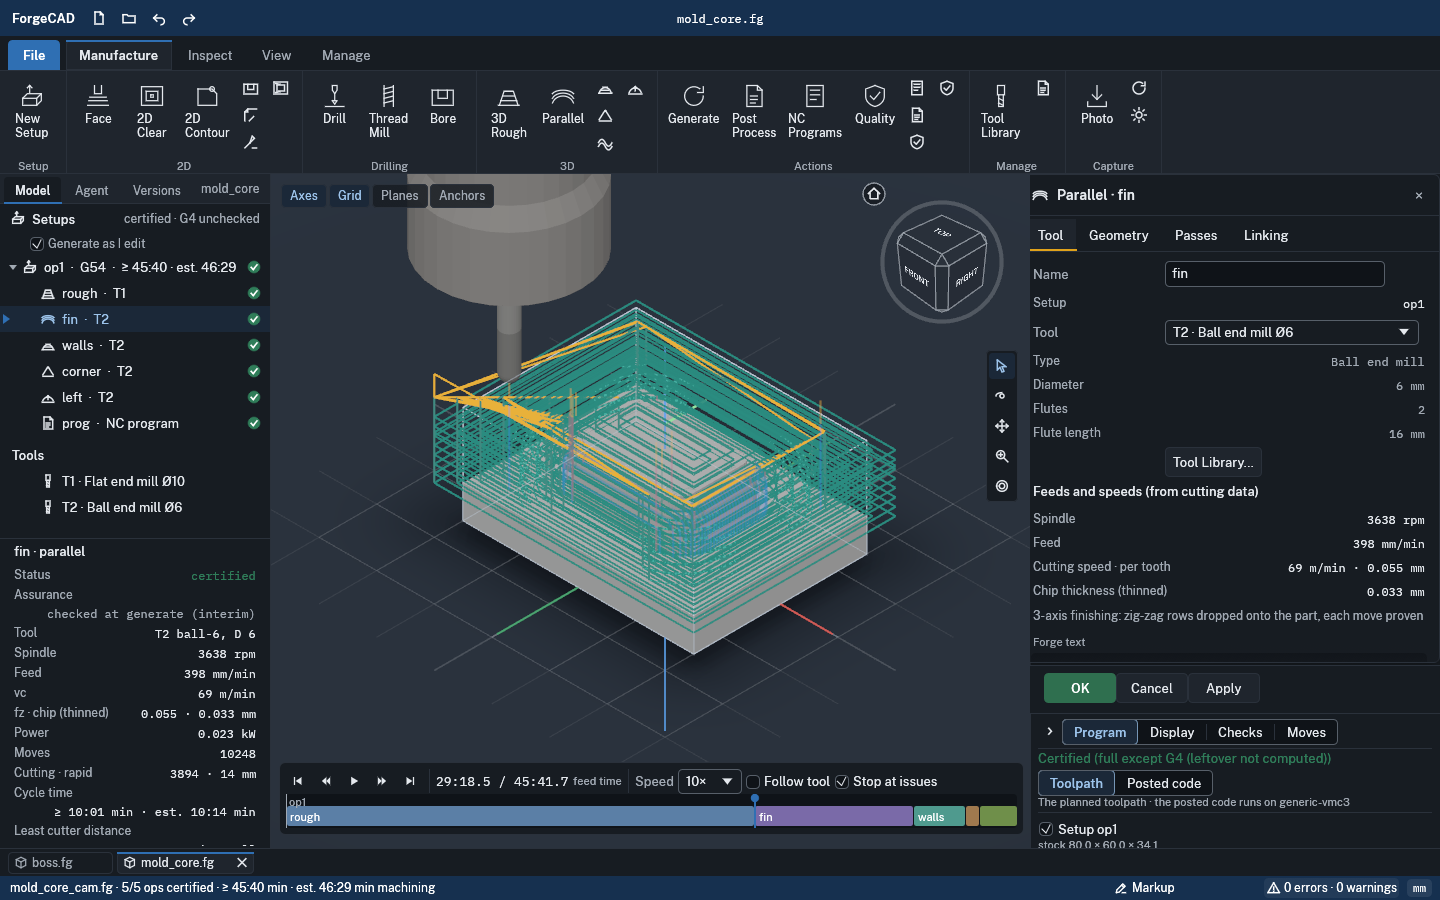
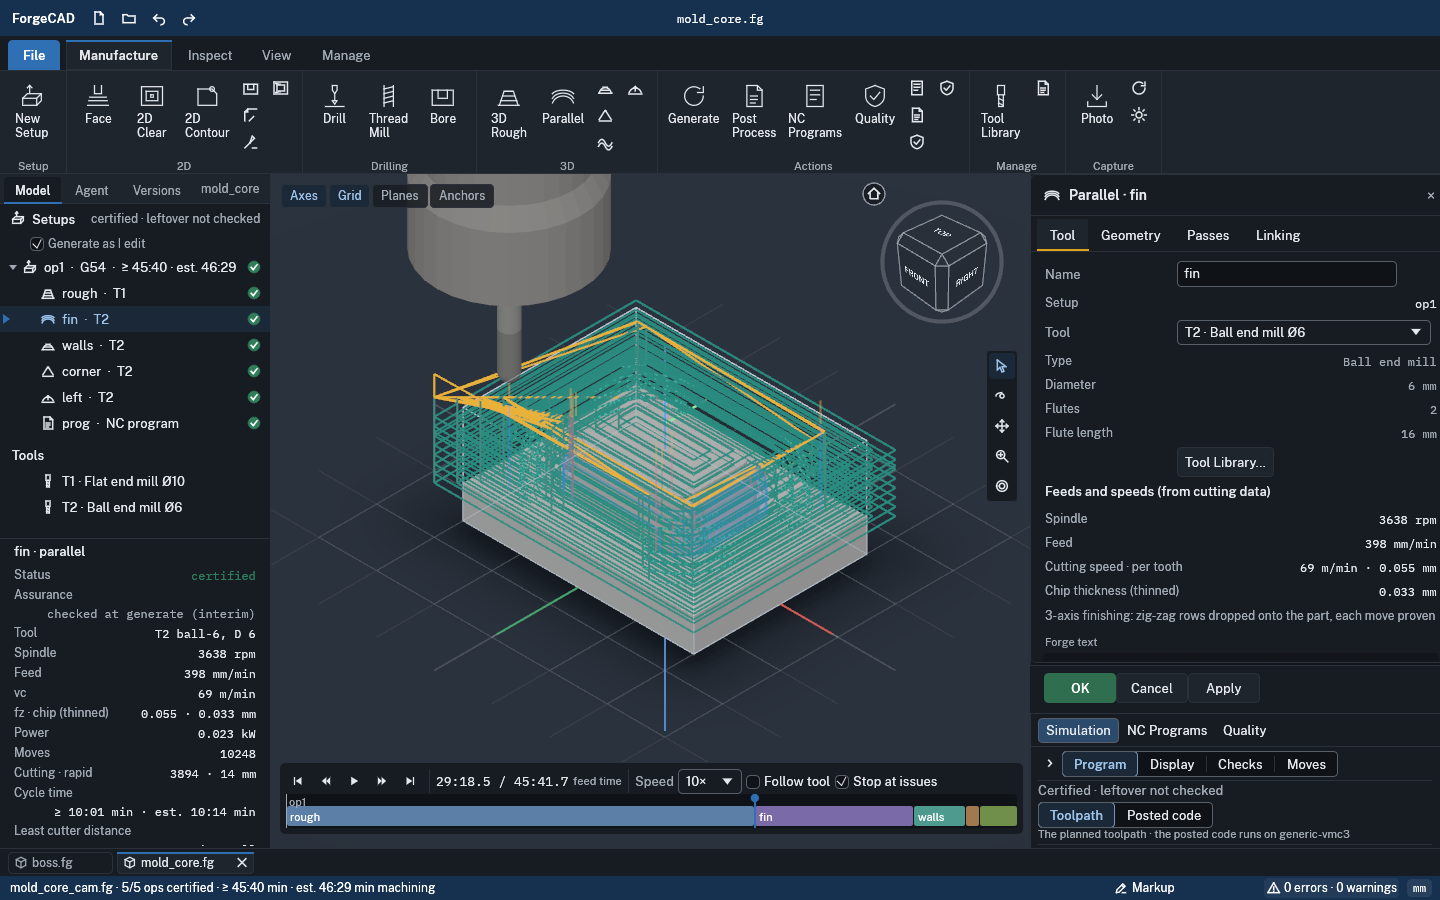
Manufacture: the simulation's header in the chip's words ("Certified · leftover not checked", the rule on hover)
UX-LEAD: with CAM-CORE's chip wording (cam/ui-cert-words @b6dab0ab, merged here), the sim panel's
verdict no longer prints the raw certification string; shell::cam::certified_words gives both.

Claude-Session: https://claude.ai/code/session_01WJtawySQLKzpnK7g6t2CVB

diff --git a/interface/forge-render/src/shell/cam/ui.rs b/interface/forge-render/src/shell/cam/ui.rs
@@ -3950,6 +3950,15 @@ pub(crate) fn cert_of(ok: bool, certification: &str) -> Cert {
     }
 }
 
+/// A certified run's words as the simulation's header says them ("Certified", or "Certified ·
+/// leftover not checked" with the hover's explanation), the same as the Setups chip.
+pub fn certified_words(certification: &str) -> (String, Option<String>) {
+    match cert_of(true, certification) {
+        Cert::Unchecked(g) => (format!("Certified \u{b7} {}", unchecked_chip(g)), Some(unchecked_words(g))),
+        _ => ("Certified".to_string(), None),
+    }
+}
+
 /// The header chip's words for an unchecked rule: what it means, never the rule's code (UX-LEAD).
 fn unchecked_chip(g: &str) -> &'static str {
     match g {
@@ -3998,6 +4007,16 @@ mod tests {
         assert_eq!(unchecked_chip("G4 and G5"), "2 checks partial");
         assert!(unchecked_words("G4").starts_with("G4: "));
         assert!(unchecked_words("G5").starts_with("G5: machine travel is checked"));
+    }
+
+    /// The simulation's header says a certified run as the chip does: no raw certification
+    /// string ("full except G4 (leftover not computed)"), the code on the hover's first line.
+    #[test]
+    fn the_simulations_header_reads_as_the_chip() {
+        assert_eq!(super::certified_words("full"), ("Certified".to_string(), None));
+        let (w, h) = super::certified_words("full except G4 (leftover not computed)");
+        assert_eq!(w, "Certified \u{b7} leftover not checked");
+        assert!(h.is_some_and(|h| h.starts_with("G4:")));
     }
 
     /// mold_core_cam end to end: its five ops and its program certify, G4 is not computed: the

diff --git a/interface/forge-render/src/gui_camsim_panel.rs b/interface/forge-render/src/gui_camsim_panel.rs
@@ -795,9 +795,18 @@ fn verdict(ui: &mut Ui, st: &mut CamSimUi, t: &crate::shell::theme::Theme) {
             format!("Not certified: {refused} op{} refused", plural(refused)),
         )
     } else {
-        (t.success, format!("Certified ({})", cam.certification()))
+        (t.success, String::new())
     };
-    ui.colored_label(c, s);
+    if s.is_empty() {
+        // certified: the workspace's words (a rule left unchecked named, its meaning on hover)
+        let (words, hover) = crate::shell::cam::certified_words(cam.certification());
+        let r = ui.colored_label(if hover.is_some() { t.ink2 } else { c }, words);
+        if let Some(h) = hover {
+            r.on_hover_text(h);
+        }
+    } else {
+        ui.colored_label(c, s);
+    }
     // the posted code on the machine: its own result, beside the toolpath's certificate
     if let Some(mv) = st.sim.machine() {
         let n = mv.markers.len();

diff --git a/interface/forge-render/src/shell/cam/mod.rs b/interface/forge-render/src/shell/cam/mod.rs
@@ -25,7 +25,7 @@ pub mod toollib;
 pub mod schema;
 pub mod turnview;
 mod ui;
-pub use ui::{CYCLE_TIP, check_lines, cycle_words};
+pub use ui::{CYCLE_TIP, certified_words, check_lines, cycle_words};
 pub use ui::{groups, status_line};
 
 use doc::{Edit, Role, Stmt};
